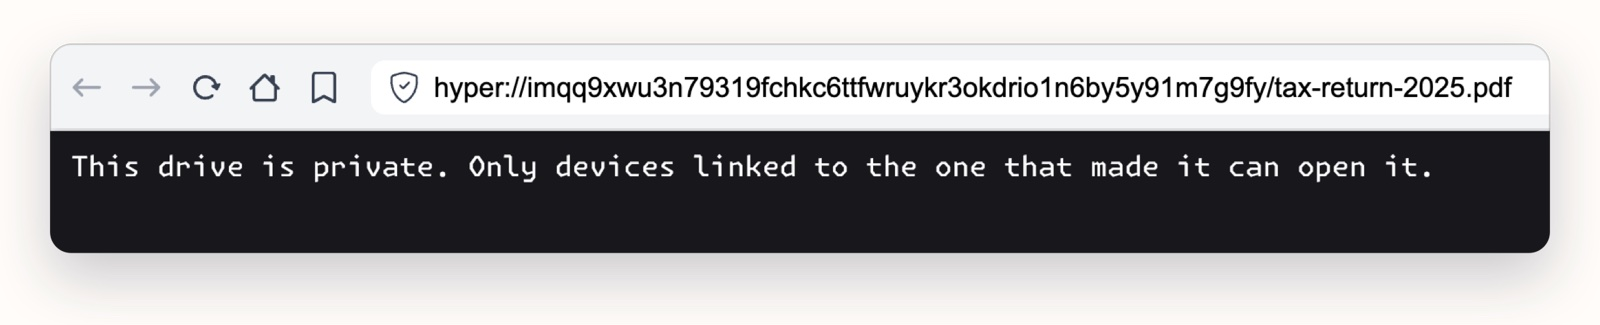
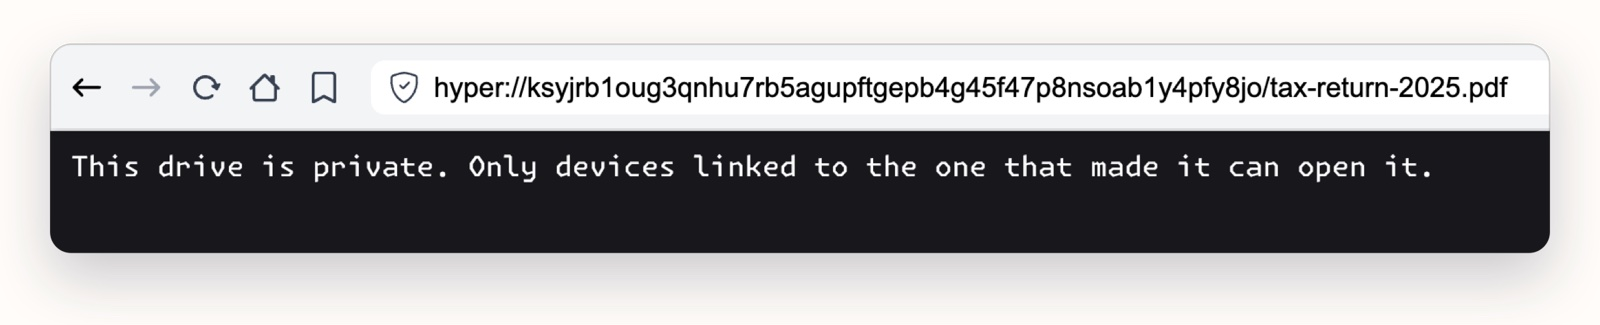
feat(blog): private files now show up on the linked laptop on their own, so the private cloud post drops the PeerChat step, explains how the devices find each other with the shared key and prove it, and has fresh screenshots with one link throughout

Changed region(s): [[0.3125, 0.2154, 0.9688, 0.3385], [0.0312, 0.2462, 0.0625, 0.2769]]

diff --git a/blog/spare-device-private-cloud/index.html b/blog/spare-device-private-cloud/index.html
@@ -6,9 +6,9 @@
   <meta http-equiv="X-UA-Compatible" content="IE=edge" />
   <meta name="viewport" content="width=device-width, initial-scale=1.0" />
   <meta name="author" content="Akhilesh Thite" />
-  <meta name="description" content="Link an old laptop or phone to your phone once, and it keeps your private files encrypted at home. Only your devices can open them." />
+  <meta name="description" content="Link an old laptop or phone to your phone once, and every private file shows up on it on its own, encrypted, with a copy kept at home. Only your devices can open them." />
   <meta property="og:title" content="Use any spare device as your private cloud with PeerSky" />
-  <meta property="og:description" content="Link an old laptop or phone to your phone once, and it keeps your private files encrypted at home. Only your devices can open them." />
+  <meta property="og:description" content="Link an old laptop or phone to your phone once, and every private file shows up on it on its own, encrypted, with a copy kept at home. Only your devices can open them." />
   <meta property="og:url" content="https://peersky.p2plabs.xyz/blog/spare-device-private-cloud/" />
   <meta property="og:type" content="article" />
   <meta property="article:published_time" content="2026-10-08" />
@@ -44,7 +44,7 @@
   <main>
     <article class="max-w-3xl mx-auto px-5 sm:px-10">
       <div class="post-body">
-        <p>That old laptop in a drawer can be your own cloud. Link it to your phone with PeerSky once, and it keeps your private files encrypted at home. Only your devices can open them. There's no account, no server and no monthly plan, and your devices' free space is the only limit.</p>
+        <p>That old laptop in a drawer can be your own cloud. Link it to your phone with PeerSky once, and every file you save as Private shows up on it by itself and stays there, encrypted. Only your devices can open them. There's no account, no server and no monthly plan, and your devices' free space is the only limit.</p>
         <p>You need PeerSky on both devices. Get it for your computer and your phone at <a href="../../#downloads">peersky.p2plabs.xyz</a>.</p>
 
         <h2>1. Link your devices</h2>
@@ -59,16 +59,18 @@
         <p>In Hyperdrive on your phone, tap Choose file and pick Private. The file is encrypted on your phone before it goes anywhere. There's no size limit: a two-page PDF or a whole movie, as long as your devices have room for it.</p>
         <figure>
           <img src="./upload.jpg" width="1200" height="1122" loading="lazy" alt="Hyperdrive on a phone: choosing Private for a file, then the Uploaded sheet with its hyper:// link" />
-          <figcaption>A private file gets a link too, and the link is safe to share.</figcaption>
+          <figcaption>It goes to your linked devices, and its link is safe to share.</figcaption>
         </figure>
-        <p>Here Sam drops the link in the family chat on PeerChat, so it's easy to find later.</p>
+
+        <h2>3. Find it on the laptop</h2>
+        <p>There's no link to send yourself. A few seconds later the file is in Hyperdrive on the laptop, under From your devices. The laptop's private files show up on the phone the same way.</p>
         <figure>
-          <img src="./chat.jpg" width="1600" height="917" loading="lazy" alt="The link sent in a PeerChat room called Family, on Alice's desktop and on Sam's phone" />
-          <figcaption>Everyone in the room gets the link. Only Sam's devices can open it.</figcaption>
+          <img src="./devices.jpg" width="1600" height="917" loading="lazy" alt="Hyperdrive on Sam's laptop listing tax-return-2025.pdf from the phone, and Hyperdrive on Sam's phone listing trip-plan.txt from the laptop" />
+          <figcaption>Each device lists the other's private files.</figcaption>
         </figure>
 
         <h2>How it works</h2>
-        <figure class="diagram" role="img" aria-label="Your phone and your spare laptop hold the same key from Link Device and swap encrypted files directly, with no server. Anyone else with the link has no key, so there is nothing for them to read.">
+        <figure class="diagram" role="img" aria-label="Your phone and your spare laptop hold the same key from Link Device, find each other with it and swap encrypted files directly, with no server. Anyone else with the link has no key, so there is nothing for them to read.">
           <div class="dg-pair">
             <div class="dg-node">
               <svg aria-hidden="true" viewBox="0 0 40 40" fill="none" stroke="currentColor" stroke-width="2.2" stroke-linecap="round" stroke-linejoin="round"><rect x="12" y="4" width="16" height="32" rx="4" /><path d="M18 31h4" /></svg>
@@ -87,7 +89,7 @@
           </div>
           <p class="dg-key">
             <svg aria-hidden="true" viewBox="0 0 24 24" fill="none" stroke="currentColor" stroke-width="2" stroke-linecap="round" stroke-linejoin="round"><circle cx="8" cy="15" r="4" /><path d="m11 12 9-9M17 6l3 3M14 9l2 2" /></svg>
-            Both hold the same key, from Link Device. No server in between.
+            Both hold the same key, from Link Device, and find each other with it. No server in between.
           </p>
           <div class="dg-outsider">
             <svg aria-hidden="true" viewBox="0 0 40 40" fill="none" stroke="currentColor" stroke-width="2.2" stroke-linecap="round" stroke-linejoin="round"><circle cx="20" cy="13" r="6" /><path d="M8 34c1.5-7 6-10 12-10s10.5 3 12 10" /></svg>
@@ -98,20 +100,22 @@
           </div>
         </figure>
 
-        <p>For the technical details, read the docs on private drives for <a href="https://github.com/p2plabsxyz/peersky-browser/blob/main/docs/P2P.md#public-and-private-hyperdrive-uploads" target="_blank" rel="noopener noreferrer">desktop</a> and <a href="https://github.com/p2plabsxyz/peersky-mobile/blob/main/docs/hyper.md#private-drives" target="_blank" rel="noopener noreferrer">mobile</a>, and on <a href="https://github.com/p2plabsxyz/peersky-mobile/blob/main/docs/link-device.md" target="_blank" rel="noopener noreferrer">Link Device</a>.</p>
+        <p>A cloud service keeps a list of your devices and passes your files between them. Here the key does that job. Each device makes the same meeting point from it and looks for the other there, over the internet or on your home Wi-Fi. When they connect, each proves it holds the key without ever sending it, and only then do they tell each other which private drives they keep. The laptop copies every file in the phone's drive, and each new one as it arrives. Someone without the key can't work out the meeting point, and anyone who reaches a device some other way isn't told which drives it keeps, because they can't prove the key.</p>
+        <p>On a cellular connection the phone says so, and the laptop waits for Wi-Fi before copying, so your data plan isn't spent on it. On the phone, Settings, then Link Device, lists the laptop as a desktop, with when it was last online.</p>
+        <p>For the technical details, read the docs on how your devices sync private files for <a href="https://github.com/p2plabsxyz/peersky-browser/blob/main/docs/P2P.md#private-files-from-your-other-devices" target="_blank" rel="noopener noreferrer">desktop</a> and <a href="https://github.com/p2plabsxyz/peersky-mobile/blob/main/docs/hyper.md#private-files-on-your-other-devices" target="_blank" rel="noopener noreferrer">mobile</a>, on private drives for <a href="https://github.com/p2plabsxyz/peersky-browser/blob/main/docs/P2P.md#public-and-private-hyperdrive-uploads" target="_blank" rel="noopener noreferrer">desktop</a> and <a href="https://github.com/p2plabsxyz/peersky-mobile/blob/main/docs/hyper.md#private-drives" target="_blank" rel="noopener noreferrer">mobile</a>, and on <a href="https://github.com/p2plabsxyz/peersky-mobile/blob/main/docs/link-device.md" target="_blank" rel="noopener noreferrer">Link Device</a>.</p>
 
         <h2>Someone who isn't linked</h2>
-        <p>Alice is in the same chat, so she has the link too. When she opens it, her PeerSky can't read any of it.</p>
+        <p>The link is still safe to share. Alice isn't linked to Sam's devices, so when she opens it, her PeerSky can't read any of it.</p>
         <figure>
           <img src="./refused.jpg" width="1600" height="325" loading="lazy" alt="Alice's PeerSky opening the link: This drive is private. Only devices linked to the one that made it can open it." />
           <figcaption>What anyone outside your devices sees.</figcaption>
         </figure>
 
         <h2>Leave it on</h2>
-        <p>Keep the spare device on, with PeerSky open, and it works like your own cloud. Sam's laptop opens the file from the link, and keeps a copy, so it still opens with PeerSky closed on the phone. It works the other way too: files you save as Private on the laptop open on your phone, on your home Wi-Fi or when you're out.</p>
+        <p>Keep the spare device on, with PeerSky open, and it works like your own cloud. Each private file from your phone is copied to the laptop while both are online, so it still opens there with PeerSky closed on the phone. It works the other way too: files you save as Private on the laptop show up on your phone, and open there on your home Wi-Fi or when you're out.</p>
         <figure>
-          <img src="./linked.jpg" width="1600" height="935" loading="lazy" alt="Sam's spare laptop showing tax-return-2025.pdf from the private link" />
-          <figcaption>The same link on Sam's spare laptop.</figcaption>
+          <img src="./linked.jpg" width="1600" height="935" loading="lazy" alt="Sam's spare laptop showing tax-return-2025.pdf from the phone's private drive" />
+          <figcaption>The phone's file, open on Sam's spare laptop.</figcaption>
         </figure>
         <p>Any computer you can leave on will do: an old laptop, a desktop or a Raspberry Pi. An old phone works too, plugged in with PeerSky open.</p>
 
@@ -128,14 +132,14 @@
             <svg aria-hidden="true" viewBox="0 0 48 48" fill="none" stroke="#2563eb" stroke-width="2.4" stroke-linecap="round" stroke-linejoin="round"><rect x="6" y="10" width="36" height="28" rx="4" /><circle cx="18" cy="20" r="3.5" /><path d="m6 33 11-10 9 8 6-5 10 9" /></svg>
             <div>
               <h3>Photos off your phone</h3>
-              <p>Save them as Private and open them on the laptop. It keeps a copy, so they're there even when the phone isn't.</p>
+              <p>Save them as Private and they show up on the laptop, which keeps a copy, so they're there even when the phone isn't.</p>
             </div>
           </div>
           <div class="use-case">
             <svg aria-hidden="true" viewBox="0 0 48 48" fill="none" stroke="#2563eb" stroke-width="2.4" stroke-linecap="round" stroke-linejoin="round"><rect x="6" y="9" width="36" height="30" rx="4" /><path d="M6 17h36M6 31h36M14 9v8M24 9v8M34 9v8M14 31v8M24 31v8M34 31v8M21 21l6 3-6 3z" /></svg>
             <div>
               <h3>Big videos and archives</h3>
-              <p>No size limit besides free space. Save a long video as Private on your phone and play it on the laptop.</p>
+              <p>No size limit besides free space. Save a long video as Private on your phone, and once you're on Wi-Fi it's on the laptop, ready to play.</p>
             </div>
           </div>
           <div class="use-case">

diff --git a/blog/index.html b/blog/index.html
@@ -54,7 +54,7 @@
             <div class="post-card-body">
               <time class="post-date" datetime="2026-10-08">October 8, 2026</time>
               <h2>Use any spare device as your private cloud with PeerSky</h2>
-              <p>Link an old laptop or phone once, and it keeps your files encrypted for you. Only your devices can open them.</p>
+              <p>Link an old laptop or phone once, and your private files show up on it on their own, encrypted. Only your devices can open them.</p>
             </div>
           </a>
         </li>
